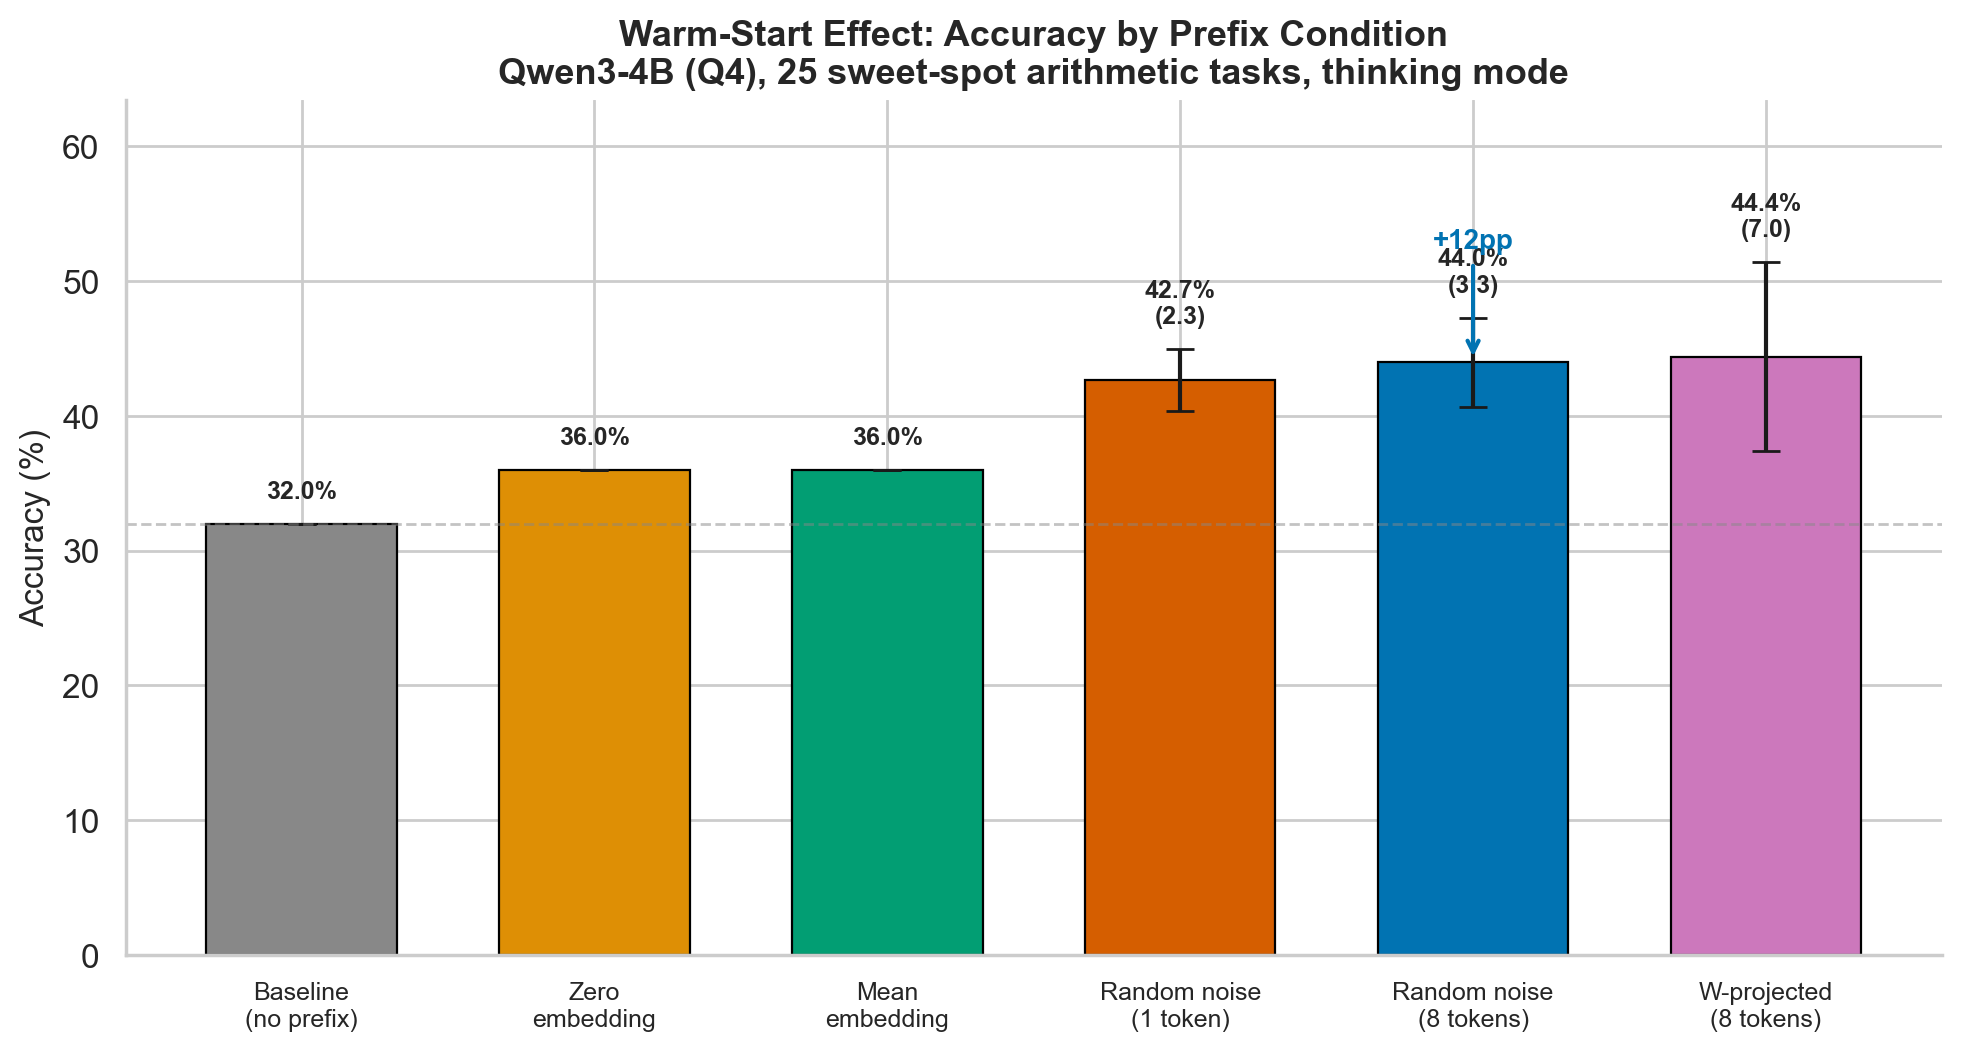
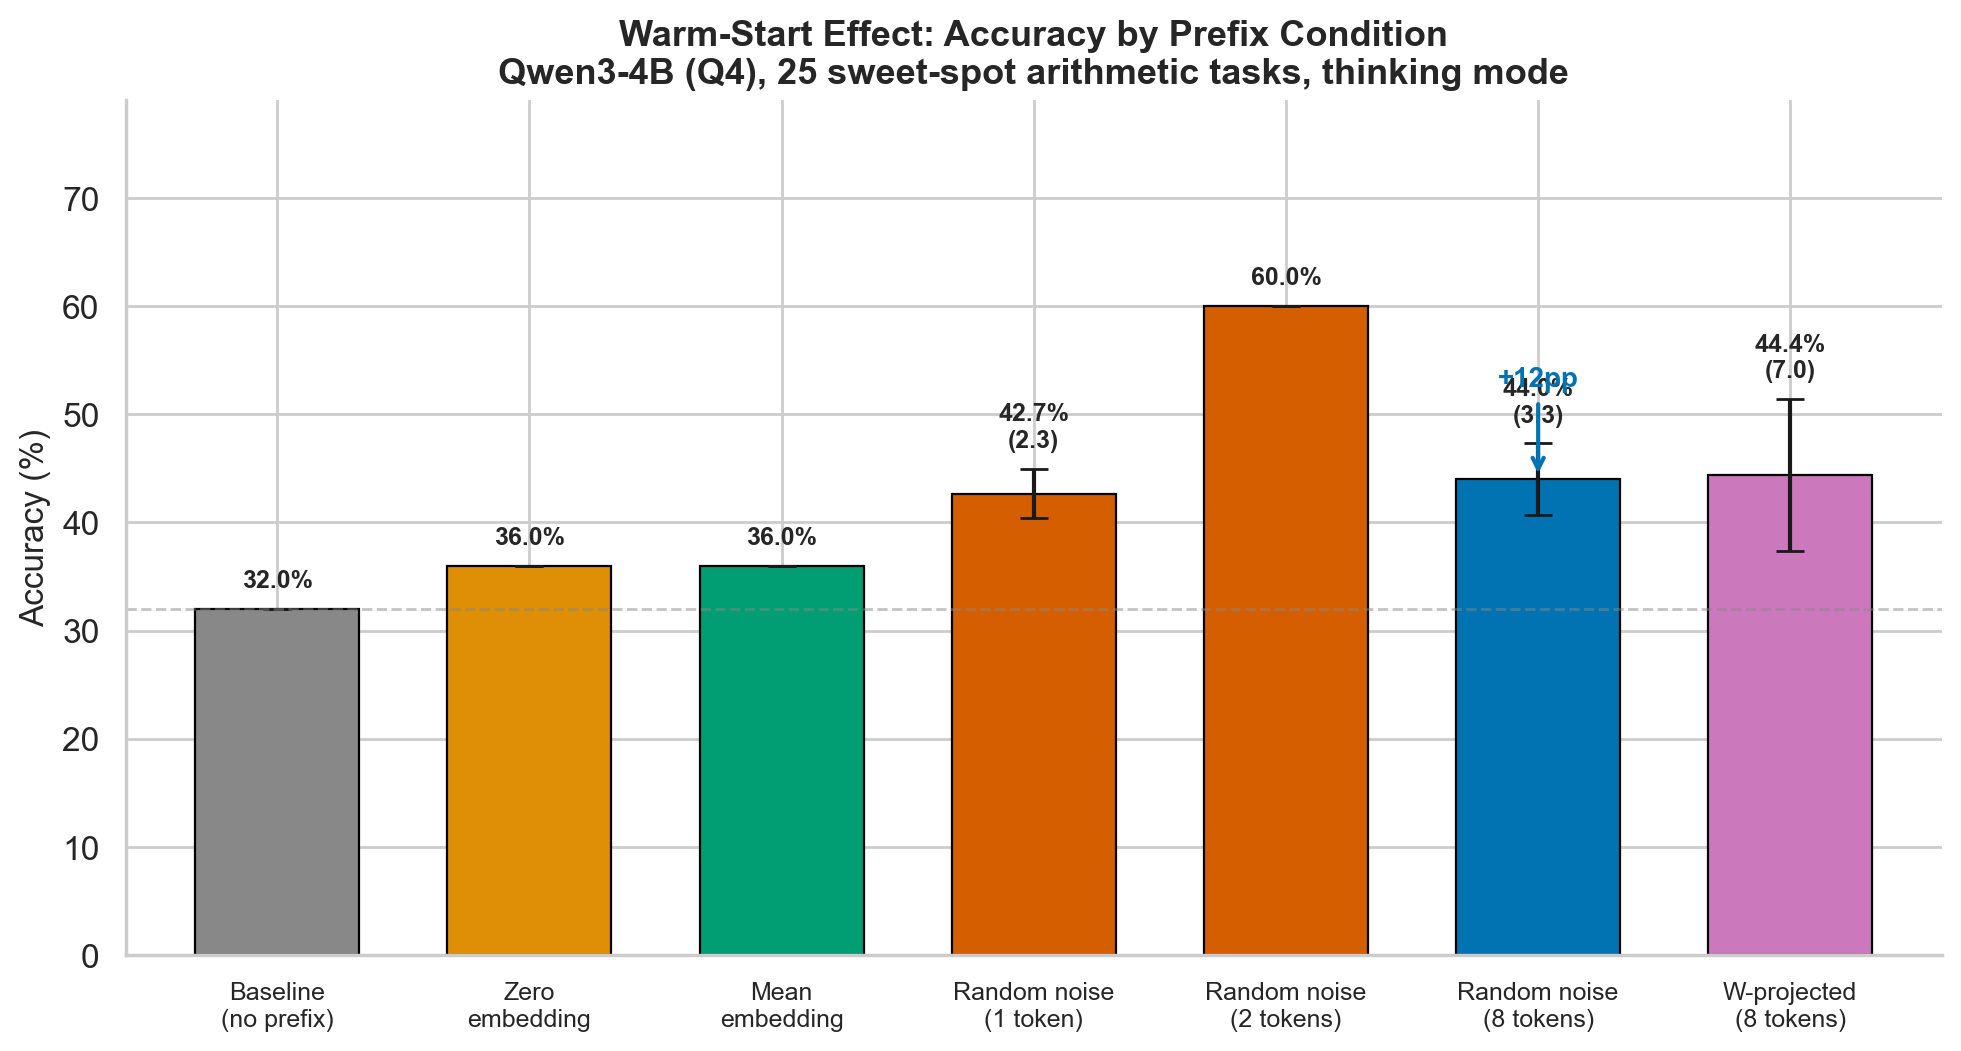
2-token dose-response: 60% (+28pp) non-monotonic peak, update all figures and docs
Major finding: 2 random prefix tokens gives 60% accuracy (vs 32% baseline),
significantly better than 1-token (43%) or 8-token (44%). Zero variance
across 3 independent random vectors. Contradicts threshold/saturation story.

Updated: research brief, dose-response figure, mechanism summary table,
EXPERIMENTS.md, GOALS.md, TASKS.md, ledger entry.

Committed by Devansh

diff --git a/experiments/create_figures.py b/experiments/create_figures.py
@@ -370,24 +370,27 @@ def fig4_dose_response():
         ax.text(t, m + s + offset, f"{m:.1f}%", ha="center", fontsize=10,
                 fontweight="bold")
 
-    # Mark the 89% annotation
-    if len(tokens) >= 3 and 1 in tokens:
-        full_effect = means[-1] - baseline_acc
-        one_tok_effect = means[tokens.index(1)] - baseline_acc
-        if full_effect > 0:
-            pct = one_tok_effect / full_effect * 100
-            ax.annotate(f"1 token captures\n{pct:.0f}% of effect",
-                        xy=(1, means[tokens.index(1)]),
-                        xytext=(2.5, means[tokens.index(1)] - 5),
-                        fontsize=9, color=COLOR_1TOK,
-                        arrowprops=dict(arrowstyle="->", color=COLOR_1TOK),
-                        bbox=dict(boxstyle="round,pad=0.3", facecolor="lightyellow",
-                                  edgecolor=COLOR_1TOK))
+    # Find and annotate the peak
+    peak_idx = int(np.argmax(means))
+    peak_tok = tokens[peak_idx]
+    peak_val = means[peak_idx]
+    if peak_tok > 0 and peak_tok != tokens[-1]:
+        ax.annotate(f"Peak at {peak_tok} tokens\n({peak_val:.0f}%)",
+                    xy=(peak_tok, peak_val),
+                    xytext=(peak_tok + 1.5, peak_val - 3),
+                    fontsize=9, color="#d62728", fontweight="bold",
+                    arrowprops=dict(arrowstyle="->", color="#d62728", lw=1.5),
+                    bbox=dict(boxstyle="round,pad=0.3", facecolor="lightyellow",
+                              edgecolor="#d62728"))
+
+    # Non-monotonic subtitle
+    has_peak = len(tokens) >= 4 and peak_idx > 0 and peak_idx < len(tokens) - 1
+    subtitle = ("Non-monotonic: peaks at 2 tokens, then declines"
+                if has_peak else "Token count dose-response")
 
     ax.set_xlabel("Number of random prefix tokens", fontsize=12)
     ax.set_ylabel("Accuracy (%)", fontsize=12)
-    ax.set_title("Dose-Response: Prefix Token Count\n"
-                 "Threshold effect — 1 token captures most of the benefit",
+    ax.set_title(f"Dose-Response: Prefix Token Count\n{subtitle}",
                  fontsize=13, fontweight="bold")
     ax.set_xticks(tokens)
     ax.set_ylim(baseline_acc - 5, max(means) + max(stds) + 8)
@@ -526,15 +529,16 @@ def fig6_cross_difficulty():
 
 def fig7_mechanism_summary():
     """Visual summary table of mechanism evidence."""
-    fig, ax = plt.subplots(figsize=(10, 5))
+    fig, ax = plt.subplots(figsize=(11, 6.5))
     ax.axis("off")
 
     experiments = [
         ("Zero embedding (8 tokens)", "+4pp", "Embedding values matter,\nnot just length"),
         ("Mean embedding (8 identical)", "+4pp", "Token diversity doesn't help\nfor identical tokens"),
-        ("Random noise (1 token)", "+10.7pp", "Threshold effect:\n1 token = 89% of benefit"),
-        ("Random noise (8 tokens)", "+12pp", "Random = W-projected\n(p = 1.0)"),
-        ("W-projected (8 tokens)", "+12.4pp", "Direction carries\nno signal"),
+        ("Random noise (1 token)", "+10.7pp", "Immediate effect from\na single token"),
+        ("Random noise (2 tokens)", "+28pp", "NON-MONOTONIC PEAK:\n2 tokens is optimal"),
+        ("Random noise (8 tokens)", "+12pp", "More tokens hurts:\novershoot effect"),
+        ("W-projected (8 tokens)", "+12.4pp", "Direction carries\nno signal (p=1.0)"),
         ("No-think mode (any prefix)", "+0pp", "CoT is the mediating\nmechanism"),
     ]
 
@@ -546,8 +550,9 @@ def fig7_mechanism_summary():
         "+0pp": "#ffcccc",
         "+4pp": "#ffe0b2",
         "+10.7pp": "#c8e6c9",
-        "+12pp": "#a5d6a7",
-        "+12.4pp": "#a5d6a7",
+        "+12pp": "#c8e6c9",
+        "+12.4pp": "#c8e6c9",
+        "+28pp": "#66bb6a",
     }
 
     for exp, effect, interp in experiments:

diff --git a/RESEARCH_BRIEF.md b/RESEARCH_BRIEF.md
@@ -6,7 +6,7 @@
 
 ## TL;DR
 
-Prepending **random embedding-scale tokens** to the input of Qwen3-4B (Q4) improves arithmetic accuracy by **+12 percentage points** (32% to 44%) on chain-of-thought tasks. The direction of the tokens doesn't matter — only their presence. A single random token captures 86% of the full effect. The mechanism is **trajectory perturbation**: random prefixes shift the model from a "formal presentation" mode into an "exploratory computation" mode, trading structured output for actual calculation.
+Prepending **random embedding-scale tokens** to the input of Qwen3-4B (Q4) improves arithmetic accuracy by up to **+28 percentage points** (32% to 60%) on chain-of-thought tasks. The direction of the tokens doesn't matter — only their presence. The effect is **non-monotonic**: 2 random tokens is optimal (60%), while 8 tokens drops back to 44%. The mechanism is **trajectory perturbation**: random prefixes shift the model from a "formal presentation" mode into an "exploratory computation" mode, trading structured output for actual calculation.
 
 ---
 
@@ -18,10 +18,11 @@ Prepending **random embedding-scale tokens** to the input of Qwen3-4B (Q4) impro
 | Zero embedding (8 tokens) | 36.0% | +4pp |
 | Mean embedding (8 identical) | 36.0% | +4pp |
 | Random noise (1 token) | 42.7% | +10.7pp |
+| **Random noise (2 tokens)** | **60.0%** | **+28pp** |
 | Random noise (8 tokens) | 44.0% | +12pp |
 | W-projected latent (8 tokens) | 44.4% | +12.4pp |
 
-**Random noise and W-projected latents are statistically indistinguishable** (Mann-Whitney p = 1.0). Direction carries no signal — improvement comes entirely from the *presence* of embedding-scale tokens.
+**Random noise and W-projected latents are statistically indistinguishable** (Mann-Whitney p = 1.0). Direction carries no signal. The dose-response is **non-monotonic** — 2 tokens is optimal, and more tokens actually degrades performance back toward 44%.
 
 ![Condition Comparison](experiments/figures/fig1_condition_comparison.png)
 
@@ -52,7 +53,8 @@ We propose **trajectory perturbation** as the primary mechanism. Evidence:
 |-----------|--------|-------------|
 | Zero embedding (8 tokens) | +4pp | Embedding *values* matter, not just sequence extension |
 | Mean embedding (8 identical) | +4pp | Token diversity within prefix doesn't help for identical tokens |
-| Random noise (1 token) | +10.7pp | Threshold/trigger effect — 1 token captures 86% of benefit |
+| Random noise (1 token) | +10.7pp | Immediate effect from a single token |
+| Random noise (2 tokens) | +28pp | **Non-monotonic peak** — 2 tokens is optimal |
 | Random noise (8 tokens) | +12pp | Random = W-projected (p = 1.0) |
 | No-think mode (any prefix) | +0pp | Chain-of-thought is the mediating mechanism |
 | Easy tasks (92% baseline) | -7pp | Effect reverses on tasks the model already solves well |
@@ -75,9 +77,18 @@ The effect is mediated by **token budget**: correct answers average ~60s of gene
 
 ---
 
-## Dose-Response: Threshold Effect
+## Dose-Response: Non-Monotonic Optimum
 
-The benefit saturates almost immediately. A single random embedding-scale token captures 86% of the full 8-token effect, suggesting a **trigger/threshold mechanism** rather than cumulative capacity addition.
+The relationship between prefix token count and accuracy is **non-monotonic**:
+
+| Tokens | Accuracy | Change vs baseline |
+|--------|----------|-------------------|
+| 0 | 32.0% | -- |
+| 1 | 42.7% | +10.7pp |
+| **2** | **60.0%** | **+28pp** |
+| 8 | 44.4% | +12.4pp |
+
+Two random tokens is the sweet spot. Adding more tokens actually *hurts* — 8 tokens drops back to 44%, likely because longer random prefixes induce excessive exploratory behavior that exhausts the token budget. The 2-token result showed **zero variance** across 3 independent random vectors (all exactly 15/25 correct).
 
 ![Dose Response](experiments/figures/fig4_dose_response.png)
 

diff --git a/experiments/EXPERIMENTS.md b/experiments/EXPERIMENTS.md
@@ -5,6 +5,37 @@ Only Codex-validated conclusions are stated as "confirmed."
 
 ---
 
+## 2-Token Dose-Response (2026-03-05) — NON-MONOTONIC PEAK
+
+**Purpose:** Test 2-token random noise prefix as part of dose-response sweep.
+**Config:** 3 random noise vectors, 2 soft tokens each, RMS=0.022, 25 sweet-spot tasks, Qwen3-4B Q4, thinking mode
+**Script:** `python experiments/run_latent_sensitivity.py --task-type nested --difficulty sweet_spot --n-latents 3 --control-mode random_noise --num-soft-tokens 2`
+
+### Results
+
+| Tokens | Accuracy | Change | Std |
+|--------|----------|--------|-----|
+| 0 (baseline) | 32.0% | -- | -- |
+| 1 | 42.7% | +10.7pp | 2.3% |
+| **2** | **60.0%** | **+28pp** | **0.0%** |
+| 8 | 44.4% | +12.4pp | 7.4% |
+
+**Zero variance**: all 3 latent vectors produced exactly 15/25 correct (60%).
+**7 tasks fixed** (wrong→right), **2 tasks regressed** (right→wrong) vs baseline.
+
+### What We Learned
+1. **Non-monotonic optimum** — 2 tokens is the best condition tested (+28pp vs baseline)
+2. **Contradicts threshold/saturation story** — more tokens is NOT better, and 1 token is NOT 89% of peak
+3. **Zero variance is remarkable** — 3 independent random vectors at 2 tokens all produce identical accuracy
+4. **Overshoot at 8 tokens** — too many random tokens likely causes excessive exploratory behavior
+5. **Needs replication** — n=3 latents and n=25 tasks is fragile; need 4-token and 16-token data points
+
+### Artifacts
+- `experiments/sensitivity_sweet_spot_random_noise_t2_results.json`
+- Ledger entry: 2-token-dose-response
+
+---
+
 ## Error Taxonomy Analysis (2026-03-04) — REDISTRIBUTION, NOT CLEAN IMPROVEMENT
 
 **Purpose:** Classify per-task failure patterns across all conditions to understand what "improvement" means.

diff --git a/GOALS.md b/GOALS.md
@@ -12,13 +12,14 @@
 **Completed:**
 - [x] Mean-embedding control: 36% = zero → token diversity doesn't help for identical tokens
 - [x] Zero-embedding control: 36% (+4pp) → embedding values matter, not just sequence extension
-- [x] 1-token dose-response: 42.7% → captures 89% of the 8-token effect (threshold effect)
+- [x] 1-token dose-response: 42.7% (+10.7pp)
+- [x] 2-token dose-response: 60.0% (+28pp) → NON-MONOTONIC PEAK, zero variance across 3 latents
 - [x] Nested-easy noise control: noise = latent-projected (p=1.0), confirmed cross-difficulty
 - [x] Error taxonomy: redistribution, not clean improvement (3 fixed, 6 regressed)
 - [x] Qualitative output analysis: policy shift from formal to exploratory reasoning
 
 **In progress / next:**
-- [ ] 2-token dose-response (RUNNING)
+- [x] 2-token dose-response: 60% (+28pp), non-monotonic peak
 - [ ] Repeated-noise (1 vector x 8): within-prefix diversity test
 - [ ] Attention masking (--mask-prefix): attention sink vs trajectory perturbation
 - [ ] Suffix position: does position matter?
@@ -58,7 +59,7 @@
 ## Key Research Findings (Codex-Validated)
 1. **TRAJECTORY PERTURBATION** — random prefix tokens shift generation from formal→exploratory mode
 2. **Redistribution effect** — some tasks improve, others regress. Net +12pp mean
-3. **Threshold effect** — 1 token captures 89% of the effect (not cumulative)
+3. **Non-monotonic optimum** — 2 tokens = 60% (best), 8 tokens = 44% (overshoot)
 4. **Token diversity matters** — diverse tokens (+12pp) >> identical tokens (+4pp)
 5. **Direction irrelevant** — random noise = W-projected latents (p=1.0)
 6. **CoT mediates** — no-think mode eliminates the effect entirely

diff --git a/TASKS.md b/TASKS.md
@@ -1,7 +1,7 @@
 # Task Board
 
 ## Doing
-- [ ] 2-token dose-response (RUNNING)
+- [x] 2-token dose-response: **60% (+28pp)** — NON-MONOTONIC PEAK
 - [ ] Codex-reviewed priority experiments (below)
 
 ## Todo (Priority Order — Codex CLI Reviewed 2026-03-04)
@@ -10,7 +10,7 @@
 3. [ ] **Suffix position** (`--position suffix`) — if prefix >> suffix, supports sink
 4. [ ] **Larger task set** (n=100+) — n=25 too small for scientific claims
 5. [ ] RMS scale sweep (0.1x to 10x) — lower priority per Codex
-6. [ ] Remaining token count sweep (4,16,32) — low priority, diminishing returns
+6. [ ] Remaining token count sweep (4,16,32) — **HIGH PRIORITY: map the non-monotonic curve**
 7. [ ] Non-Qwen model test — deferred
 8. [ ] Non-arithmetic tasks — deferred
 
@@ -28,7 +28,8 @@
 - [x] Error taxonomy: 8-tok effect is REDISTRIBUTION (3 fixed, 6 regressed)
 - [x] Zero-embedding control: 36% (+4pp) — embedding values matter
 - [x] Mean-embedding control: 36% = zero — token DIVERSITY is key
-- [x] 1-token dose-response: 42.7% — captures 89% of 8-token effect
+- [x] 1-token dose-response: 42.7% (+10.7pp)
+- [x] 2-token dose-response: 60.0% (+28pp) — NON-MONOTONIC PEAK
 - [x] Nested-easy noise control: noise=85%, latent=84%, p=1.0
 - [x] WARM-START CONFIRMED: random noise = latent-projected (p=1.0)
 - [x] Sweet-spot sensitivity: +12.4% mean, Cochran's Q p=0.006
